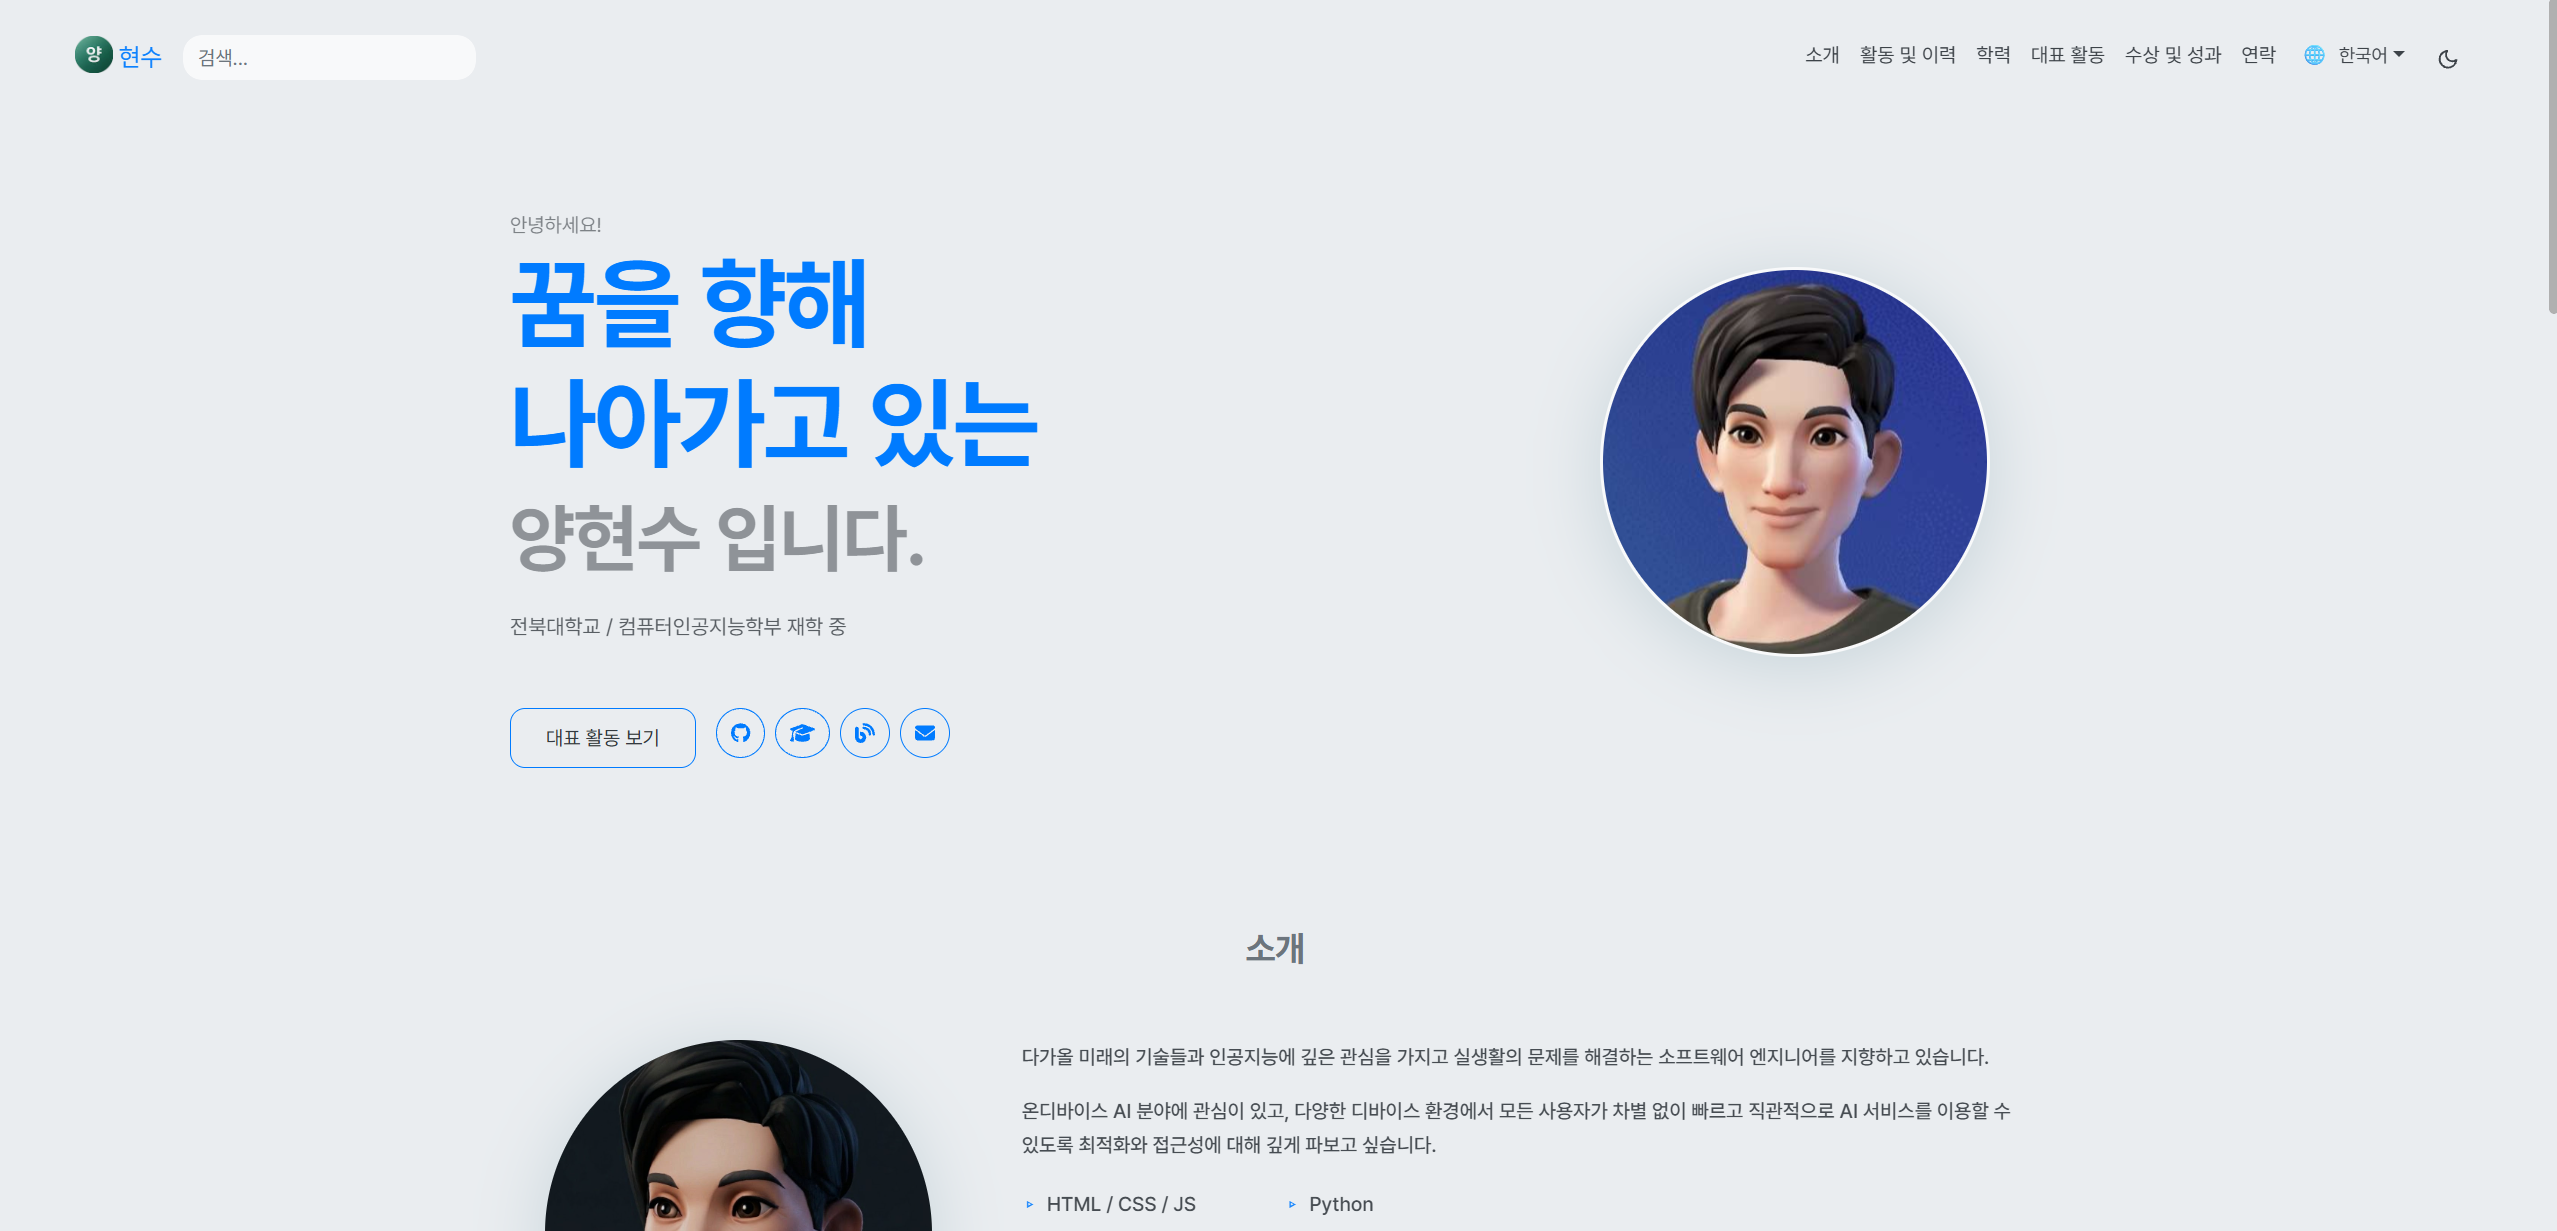
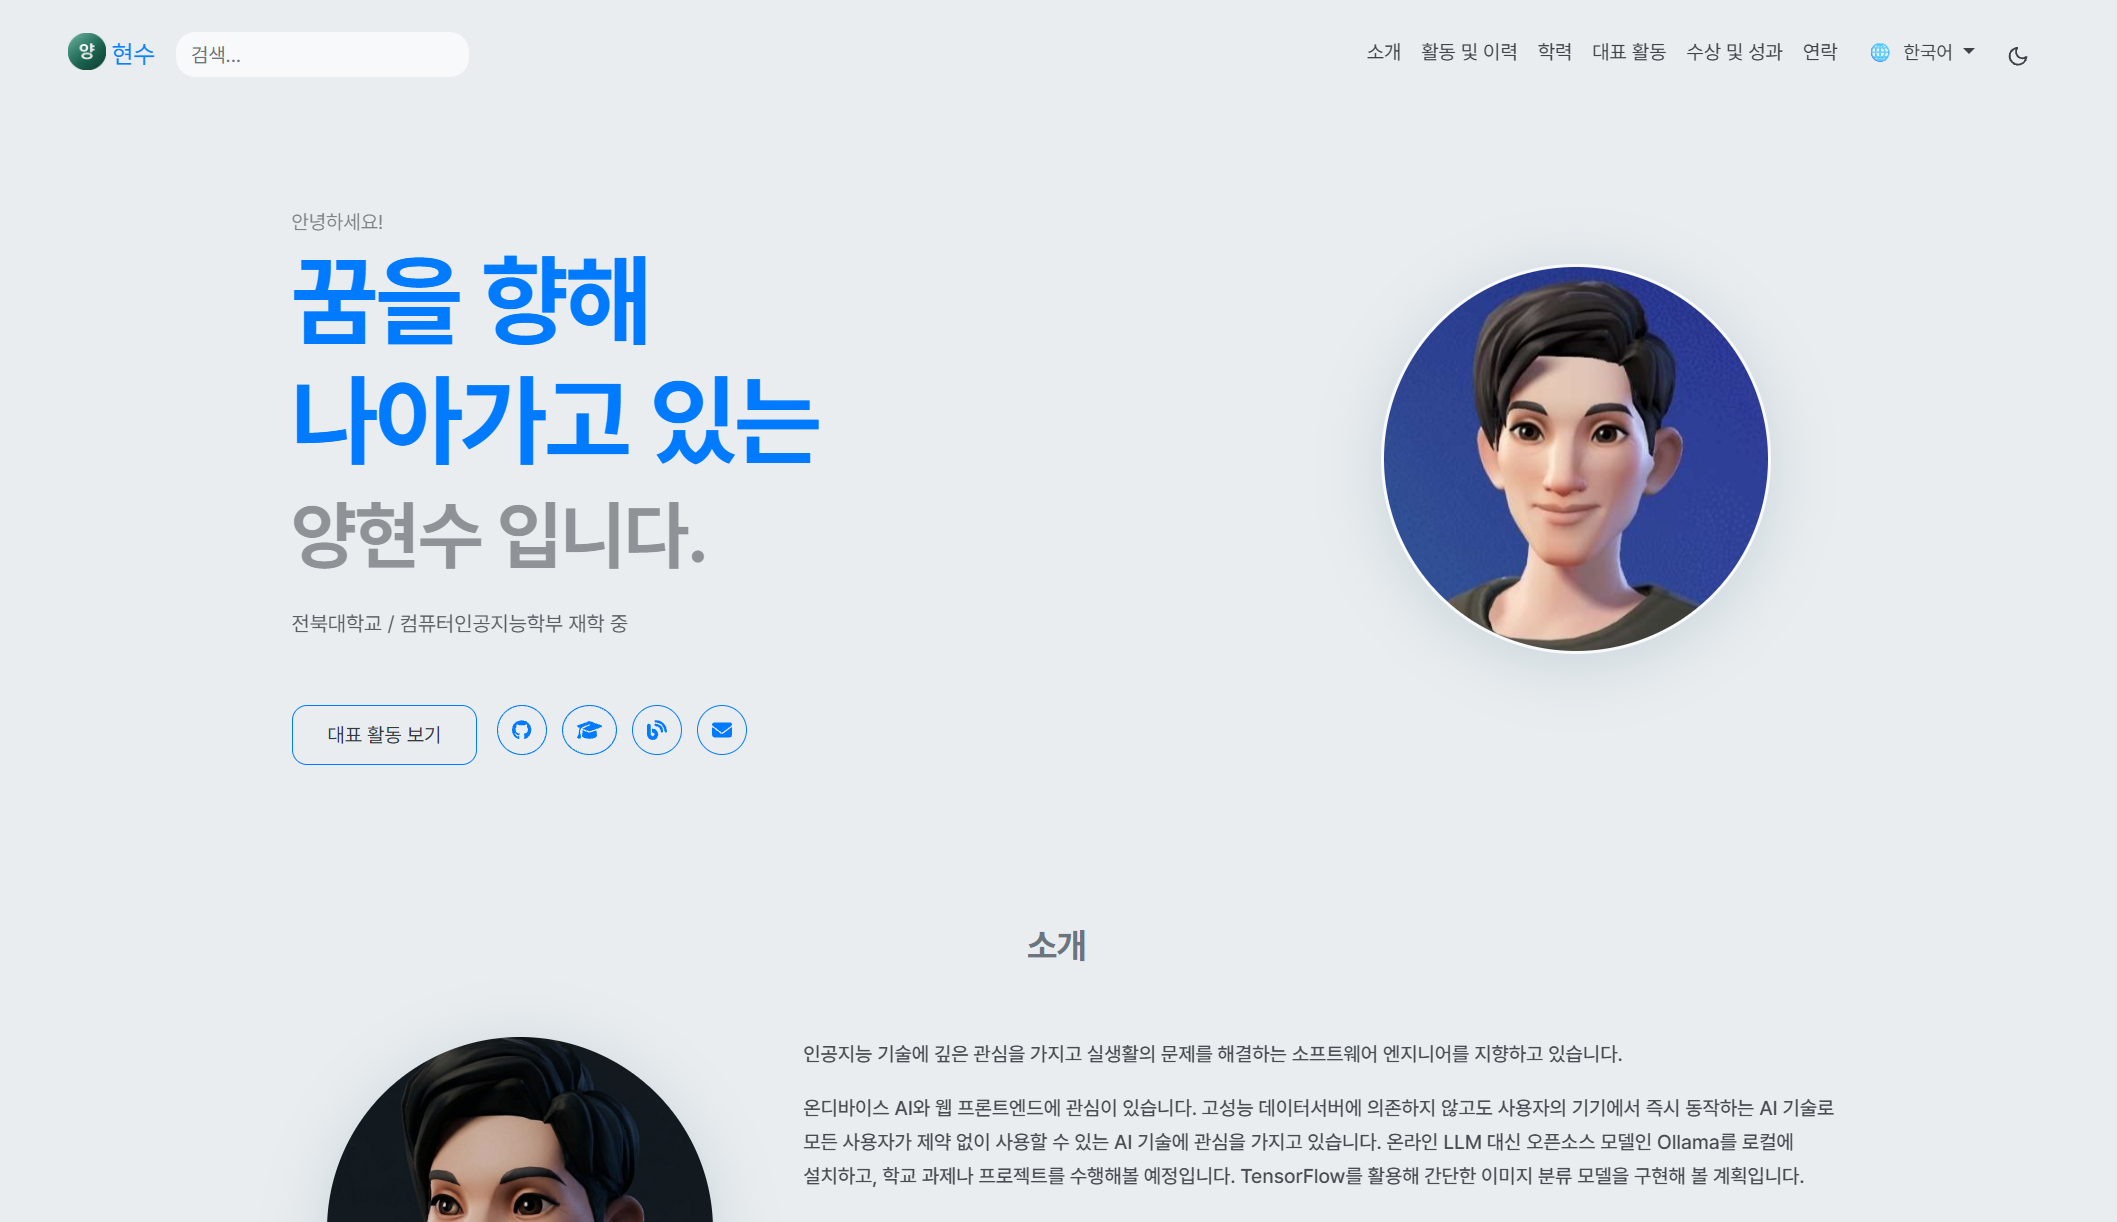
대표 활동 2개를 위한 추가 페이지를 위한 마크다운 추가

diff --git a/site/content/projects/python_game.md b/site/content/projects/python_game.md
@@ -1,0 +1,50 @@
+---
+title: "파이썬 라이브러리를 통한 게임 제작 팀 프로젝트"
+date: 2026-10-14
+description: "파이썬 라이브러리를 통한 게임 제작 팀 프로젝트 상세 내용"
+image: "/myPortfolio/images/projects/converter.jpg"
+toc: true
+badges:
+  - "Python"
+  - "Game Project"
+  - "Team Collaboration"
+---
+
+[← 메인 포트폴리오로 돌아가기](/myPortfolio/)
+
+---
+
+### 1. 대표 활동의 상태 (진행 상태 및 기간)
+- **상태**: 
+- **수행 기간**: 
+
+---
+
+### 2. 대표 활동에서 해결한 문제 또는 달성한 목표
+- 
+
+---
+
+### 3. 대표 활동에서 본인이 담당한 작업
+- **역할 / 기여도**: 
+- **담당 작업 내용**: 
+
+---
+
+### 4. 대표 활동에서 도구, 방법, 구현 중 한 가지 이상 선택한 이유
+- 
+
+---
+
+### 5. 대표 활동의 산출물
+- **산출물 및 링크**: 
+- **결과 설명**: 
+
+---
+
+### 6. 대표 활동에서 배운 점
+- 
+
+---
+
+[← 메인 포트폴리오로 돌아가기](/myPortfolio/)

diff --git a/site/content/projects/hugo_portfolio.md b/site/content/projects/hugo_portfolio.md
@@ -1,0 +1,50 @@
+---
+title: "Hugo 기반 포트폴리오 웹사이트 구축 및 자동 배포"
+date: 2026-10-14
+description: "Hugo 기반 포트폴리오 웹사이트 구축 및 자동 배포 상세 내용"
+image: "/myPortfolio/images/projects/profile.png"
+toc: true
+badges:
+  - "Hugo"
+  - "GitHub Actions"
+  - "Web Accessibility"
+---
+
+[← 메인 포트폴리오로 돌아가기](/myPortfolio/)
+
+---
+
+### 1. 대표 활동의 상태 (진행 상태 및 기간)
+- **상태**: 
+- **수행 기간**: 
+
+---
+
+### 2. 대표 활동에서 해결한 문제 또는 달성한 목표
+- 
+
+---
+
+### 3. 대표 활동에서 본인이 담당한 작업
+- **역할 / 기여도**: 
+- **담당 작업 내용**: 
+
+---
+
+### 4. 대표 활동에서 도구, 방법, 구현 중 한 가지 이상 선택한 이유
+- 
+
+---
+
+### 5. 대표 활동의 산출물
+- **산출물 및 링크**: 
+- **결과 설명**: 
+
+---
+
+### 6. 대표 활동에서 배운 점
+- 
+
+---
+
+[← 메인 포트폴리오로 돌아가기](/myPortfolio/)
